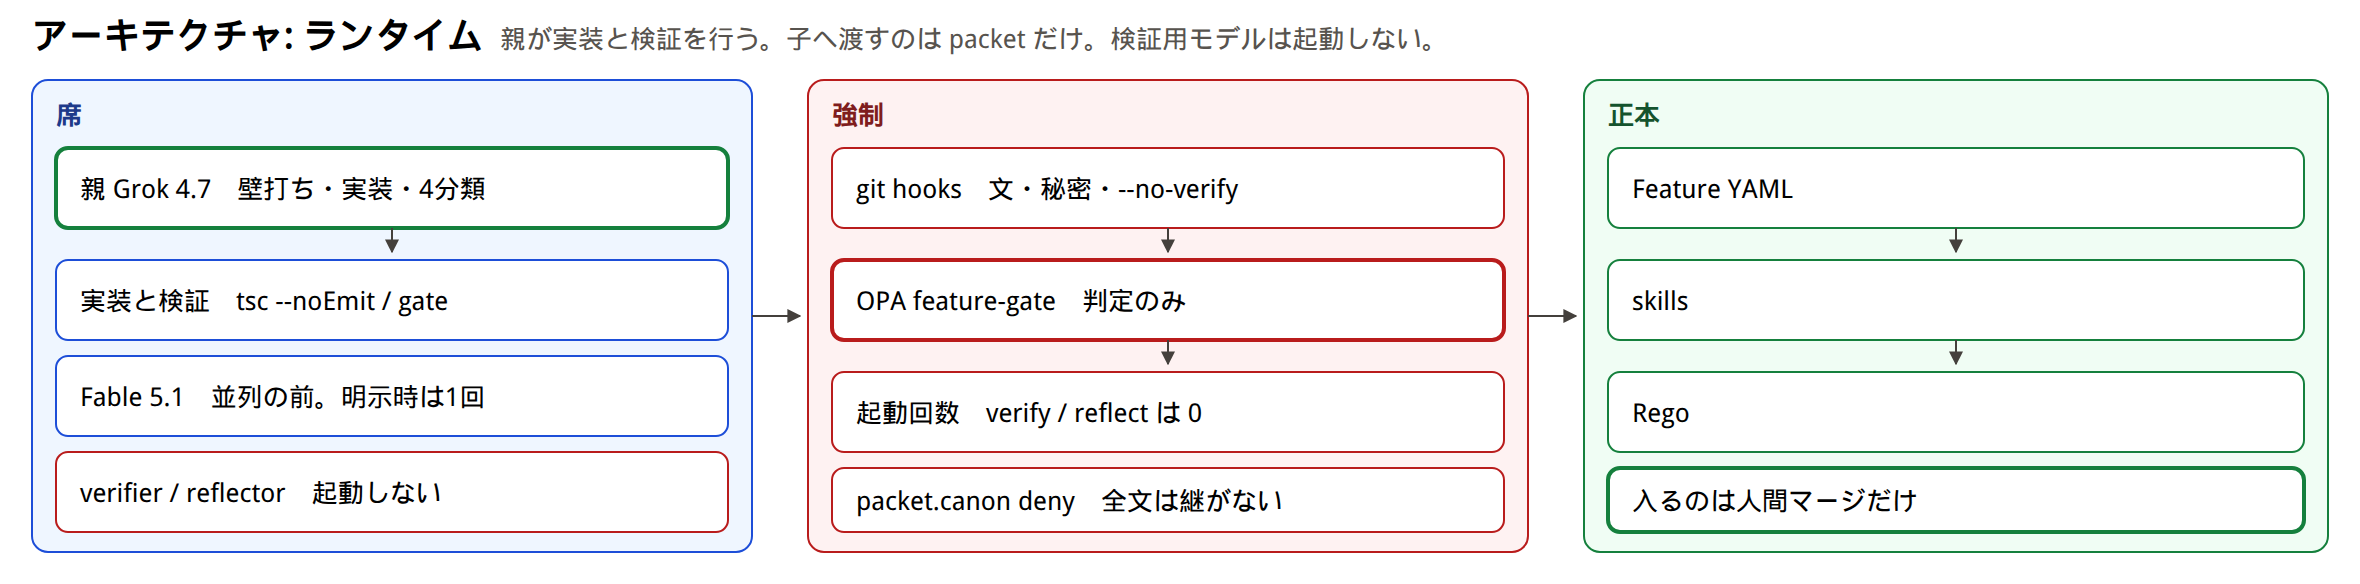
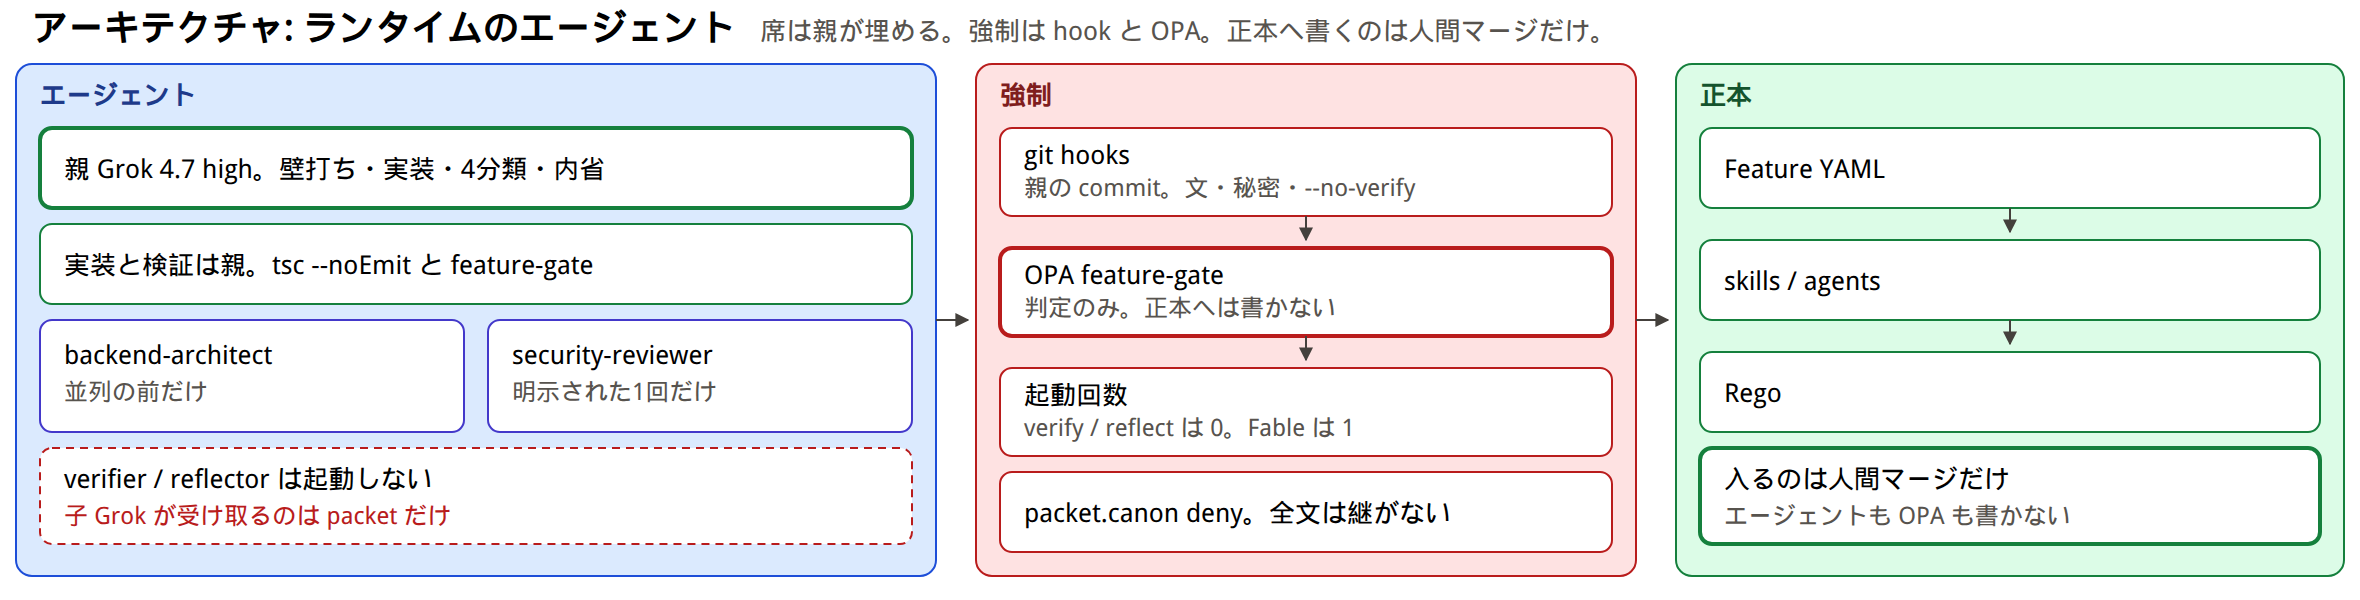
docs: 図に親と条件付きのエージェントを入れる。

diff --git a/README.md b/README.md
@@ -44,7 +44,7 @@ node scripts/install-git-hooks.mjs
 
 ### モデルとレビュー
 
-親 Grok 4.7 が常時動く。型の正解は `tsc --noEmit`。品質の指摘は親が1回、4つに分ける。コードを変えるのは直すだけ。緑のあと二周目は開かない。Fable は並列展開の前か、人が明示した1回だけ。verifier と reflector の起動は feature-gate が 0 回で拒否する。監査は OPA の被覆、契約の実行、起動回数の比較。
+常時動くのは親エージェント Grok 4.7 high だけ。型の正解は `tsc --noEmit`。品質の指摘は親が1回、4つに分ける。コードを変えるのは直すだけ。緑のあと二周目は開かない。Fable の backend-architect は並列展開の前だけ、security-reviewer は人が明示した1回だけ。verifier と reflector は起動せず、feature-gate が 0 回で拒否する。
 
 ![モデルとレビュー](docs/architecture/model-review.png)
 
@@ -71,9 +71,9 @@ flowchart TB
   FG --> BEH["契約の振る舞い"]
   FG --> PR["PR"]
   PR --> HM["人間マージ"]
-  G -.->|並列展開の前| FABLE["Fable plan-confirm"]
-  G -.->|人が明示した1回| ONCE["Fable 1回"]
-  CAP -->|verify と reflect| DENY["0回で拒否"]
+  G -.->|並列展開の前| BA["Fable backend-architect"]
+  G -.->|人が明示した1回| SR["Fable security-reviewer"]
+  CAP -->|0回| OFF["verifier と reflector は起動しない"]
 ```
 
 ### 監査
@@ -98,6 +98,7 @@ flowchart TB
     PL["計画 writing-plans"]
     IM["実装 親 Grok"]
     CT["契約と feature-gate"]
+    OFF["verifier / reflector は出さない"]
   end
 
   subgraph qa["品質ゲート"]
@@ -143,6 +144,8 @@ flowchart LR
     direction TB
     G["親 Grok 4.7"]
     IMP["実装と検証は親"]
+    BA["Fable は条件付き"]
+    OFF["verifier と reflector は起動しない"]
   end
 
   subgraph force["強制"]
